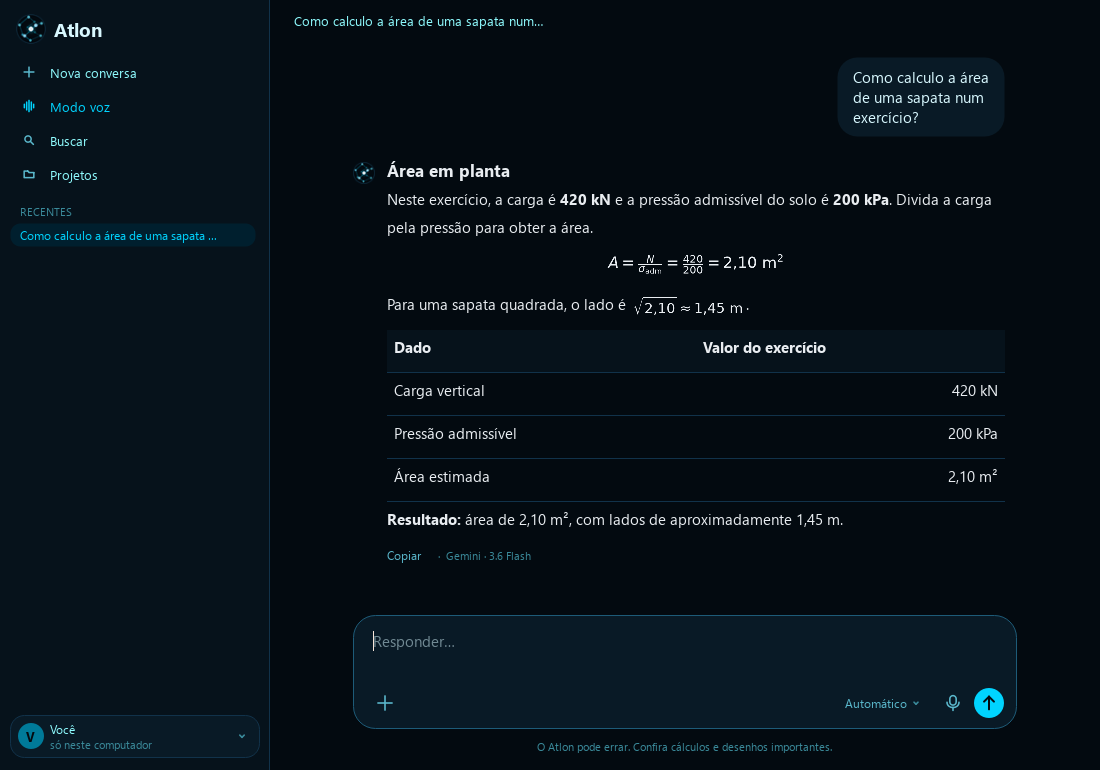
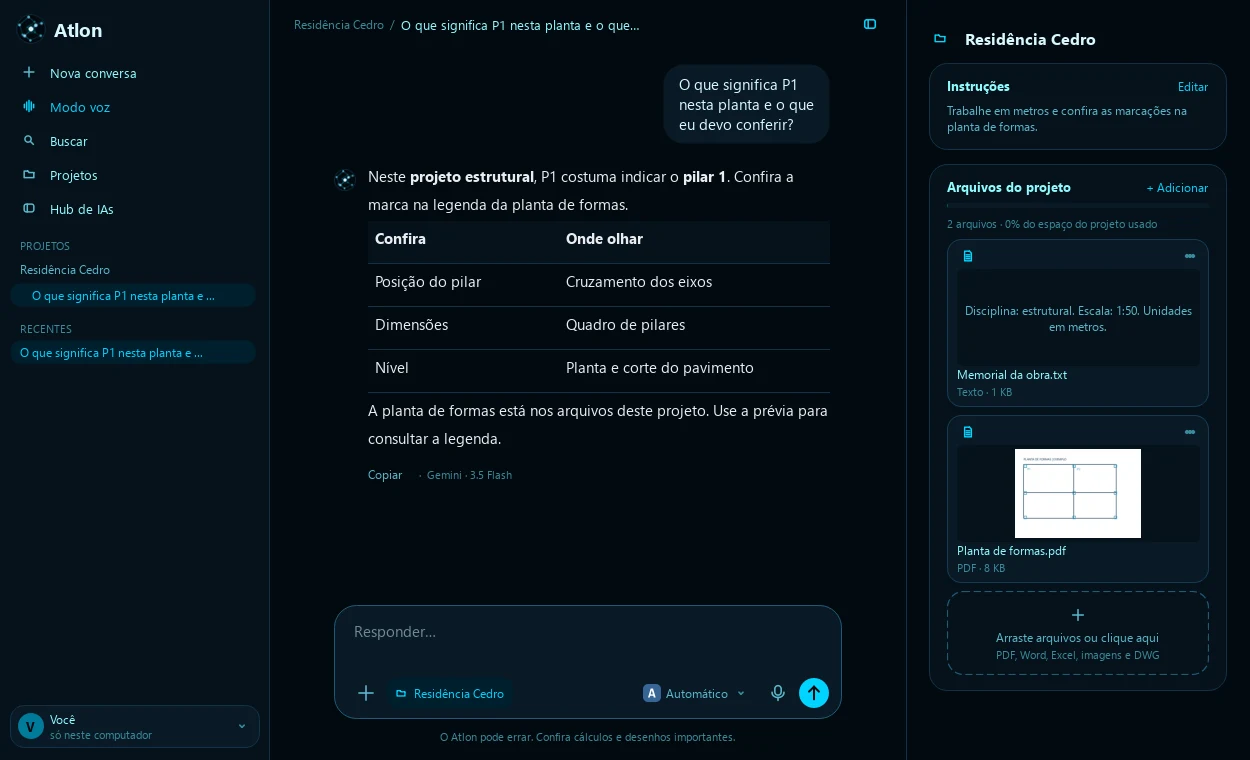
Apresenta os recursos atuais do Atlon e prepara a Beta 1.6

diff --git a/index.html b/index.html
@@ -3,16 +3,16 @@
 <head>
 <meta charset="utf-8"><meta name="viewport" content="width=device-width, initial-scale=1">
 <meta name="robots" content="noindex, nofollow"><meta name="theme-color" content="#030a10">
-<meta name="description" content="Conheça o Atlon, seu assistente de voz para o dia a dia e a engenharia civil. Baixe o beta para Windows e o guia em PDF.">
+<meta name="description" content="Conheça o Atlon. Converse com suas IAs, organize projetos e acompanhe seus desenhos no AutoCAD e Revit. Baixe para Windows e consulte o guia em PDF.">
 <title>A.T.L.O.N. · Seu projeto, na conversa.</title>
-<link rel="icon" href="atlon-logo.png"><link rel="stylesheet" href="style.css?v=mark-i-5"><script src="site.js?v=mark-i-4" defer></script>
+<link rel="icon" href="atlon-logo.png"><link rel="stylesheet" href="style.css?v=mark-i-6"><script src="site.js?v=mark-i-6" defer></script>
 </head>
 <body>
 <a class="skip" href="#inicio">Pular para o conteúdo</a>
-<header class="wrap top"><a class="brand" href="#inicio" aria-label="Atlon, início"><img src="atlon-logo.png" width="36" height="36" alt="">A.T.L.O.N.</a><nav aria-label="Navegação principal"><a href="#novidades">Novidades</a><a href="#videos">Vídeos</a><a href="#guia">Guia</a><a class="nav-download" href="#baixar">Baixar ↓</a></nav></header>
+<header class="wrap top"><a class="brand" href="#inicio" aria-label="Atlon, início"><img src="atlon-logo.png" width="36" height="36" alt="">A.T.L.O.N.</a><nav aria-label="Navegação principal"><a href="#recursos">Recursos</a><a href="#videos">Vídeos</a><a href="#guia">Guia</a><a class="nav-download" href="#baixar">Baixar ↓</a></nav></header>
 <main id="inicio">
 <section class="hero wrap" aria-labelledby="titulo">
-<div><p class="edition"><span aria-hidden="true">●</span> Mark I / Beta 1.5 para Windows</p><h1 id="titulo">Seu projeto,<br>na conversa.</h1><p class="lead">Um assistente que ouve suas ideias e ajuda a levar o trabalho adiante. Do dia a dia ao desenho técnico.</p><div class="actions"><a class="button primary" href="#baixar">Baixar o Atlon ↓</a><a class="text-link" href="#como-funciona">Conhecer o assistente</a></div><p class="fine">Voz e texto · AutoCAD e Revit · Projetos e documentos</p></div>
+<div><p class="edition"><span aria-hidden="true">●</span> Mark I para Windows</p><h1 id="titulo">Seu projeto,<br>na conversa.</h1><p class="lead">Converse com suas IAs, organize os arquivos de cada projeto e leve a conversa para o AutoCAD ou o Revit.</p><div class="actions"><a class="button primary" href="#baixar">Baixar o Atlon ↓</a><a class="text-link" href="#hub-de-conversas">Conhecer o Hub de Conversas</a></div><p class="fine">Voz e texto · AutoCAD e Revit · Projetos e documentos</p></div>
 <div class="nucleus hud" aria-label="Ilustração da esfera de rede do Atlon"><div class="frame-head"><span>◈ NÚCLEO ATLON</span><span>DEMONSTRAÇÃO</span></div><canvas id="sphere" width="600" height="540" aria-hidden="true"></canvas><div class="frame-foot"><span>REDE NEURAL ◉</span><span>VOZ + CONTEXTO</span></div></div>
 </section>
 <section class="experience wrap" id="como-funciona" aria-labelledby="funciona">
@@ -24,40 +24,32 @@
 <article><span aria-hidden="true">⌖</span><h3>Trabalhe com contexto</h3><p>Na estação conectada, consulte seleção e propriedades do projeto. Peça orientação com referências de AutoCAD e Revit.</p></article>
 <article><span aria-hidden="true">✓</span><h3>Confira antes de mudar</h3><p>Nas operações disponíveis, o Atlon prepara uma prévia. Você confirma a alteração e pode pedir para desfazê-la.</p></article>
 </section>
-<section class="release wrap" id="novidades" aria-labelledby="release-title">
-  <div class="release-head"><h2 id="release-title">O que mudou na Beta 1.5</h2><a class="text-link" href="#baixar">Ir para o download ↓</a></div>
-  <section class="hub-feature setup-feature" aria-labelledby="setup-title">
-    <div class="hub-copy">
-      <h3 id="setup-title">O Atlon ajuda a se configurar</h3>
-      <p>Abra <strong>Configurar Atlon</strong> para conferir as IAs disponíveis, testar o Gemini ou escolher se quer sincronizar as conversas com o Google.</p>
-      <p>Você também pode escrever “Quais IAs eu já tenho conectadas?” para receber ajuda no chat.</p>
-    </div>
-    <figure class="hub-screen"><a href="configurar-atlon.webp" aria-label="Ampliar a tela Configurar Atlon"><img src="configurar-atlon.webp" width="596" height="533" loading="lazy" alt="Tela Configurar Atlon com botão Entrar com Google e opções de Gemini, ChatGPT e Claude."></a><figcaption>Tela de configuração com um perfil de exemplo.</figcaption></figure>
-  </section>
+<section class="release wrap" id="recursos" aria-labelledby="recursos-title">
+  <div class="release-head"><h2 id="recursos-title">O que você pode fazer com o Atlon</h2></div>
 <section class="hub-feature" id="hub-de-conversas" aria-labelledby="hub-title">
   <div class="hub-copy">
     <h3 id="hub-title">Hub de Conversas</h3>
-    <p>Abra <strong>Conversar</strong> no Atlon. Na caixa de mensagem, clique em <strong>Automático</strong> para escolher a IA, o modelo, o modo e o esforço disponível.</p>
-    <p>O Atlon mostra quem respondeu. As contas aparecem conforme as conexões que você configurar.</p>
-    <figure class="hub-picker"><img src="hub-escolha-ia.webp" width="383" height="280" loading="lazy" alt="Menu do Atlon com Gemini, Claude, ChatGPT e Groq, modo Análise detalhada e esforço Alto."><figcaption>Menu de escolha da IA, do modo e do esforço.</figcaption></figure>
+    <p>Escolha entre as IAs conectadas ou use o <strong>Automático</strong>. Você pode decidir o modelo, o modo de resposta e o esforço disponível. Cada resposta mostra a IA que respondeu.</p>
+    <p>Em <strong>Projetos</strong>, reúna instruções e arquivos. Veja miniaturas e abra PDFs dentro do Atlon. O chat retoma informações do mesmo projeto, como disciplina e escala.</p>
+    <figure class="hub-picker"><a href="hub-escolha-ia.webp?v=1.6" aria-label="Ampliar o Hub de IAs"><img src="hub-escolha-ia.webp?v=1.6" loading="lazy" alt="Hub de IAs do Atlon com busca, logos dos provedores e opções de modelo e esforço."></a><figcaption>Hub de IAs com um perfil de exemplo.</figcaption></figure>
   </div>
-  <figure class="hub-screen"><a href="hub-conversas.webp" aria-label="Ampliar imagem do Hub de Conversas"><img src="hub-conversas.webp" width="1100" height="770" loading="lazy" alt="Hub de Conversas do Atlon com uma resposta de engenharia, fórmula de área, tabela e identificação do modelo."></a><figcaption>Conversa de exemplo no Atlon. Clique na imagem para ampliar.</figcaption></figure>
+  <figure class="hub-screen"><a href="hub-conversas.webp?v=1.6" aria-label="Ampliar o Hub de Conversas"><img src="hub-conversas.webp?v=1.6" width="1250" height="760" loading="lazy" alt="Conversa de engenharia no Atlon com uma resposta formatada e miniaturas de arquivos do projeto."></a><figcaption>Conversa de exemplo com os arquivos da obra ao lado.</figcaption></figure>
 </section>
   <div class="release-grid">
+    <article><h3>Instruções e skills</h3><p>Guarde orientações que o chat deve seguir e escolha uma skill para Word, Excel, PowerPoint ou PDF. Você também pode criar a sua.</p></article>
+    <article><h3>Configuração guiada</h3><p>Veja quais IAs estão conectadas, teste a chave do Gemini e escolha se quer sincronizar suas conversas com o Google.</p></article>
     <article><h3>IA local como opção</h3><p>Converse por texto com um modelo no seu computador. Depois de preparado, ele também pode responder como reserva no Automático.</p></article>
-    <article><h3>Escolha quem responde</h3><p>Use o modo Rápido, Equilibrado ou Detalhado. DeepSeek, Grok e Mistral entram no chat quando você conecta a própria chave.</p></article>
-    <article><h3>Entenda o contexto do desenho</h3><p>P1 pode ser porta ou pilar. O Atlon considera a disciplina, a legenda e, no Revit, a categoria do elemento.</p></article>
   </div>
 </section>
 <section class="videos wrap" id="videos" aria-labelledby="em-acao"><div class="videos-head"><p class="kicker">Exemplos reais</p><h2 id="em-acao">Veja o Atlon<br>em ação.</h2><p class="intro-text">Gravados no próprio Atlon, com arquivos de exemplo. A voz grave é a do Atlon; a narração explica cada passo.</p></div><div class="video-grid"><article class="video-card"><video controls preload="none" playsinline poster="videos/conheca.jpg" aria-label="Vídeo: Conheça o Atlon"><source src="videos/conheca.mp4" type="video/mp4"></video><h3>Conheça o Atlon</h3><p>Você pergunta, ele responde com a própria voz e muda a tela conforme o assunto.</p></article><article class="video-card"><video controls preload="none" playsinline poster="videos/mapa.jpg" aria-label="Vídeo: Mapa de Arquivos"><source src="videos/mapa.mp4" type="video/mp4"></video><h3>Mapa de Arquivos</h3><p>Qualquer pasta vira um mapa. Entre nas pastas e abra arquivos pela voz.</p></article><article class="video-card"><video controls preload="none" playsinline poster="videos/arquivos.jpg" aria-label="Vídeo: Planilhas e documentos"><source src="videos/arquivos.mp4" type="video/mp4"></video><h3>Planilhas e documentos</h3><p>Abra uma planilha dentro do Atlon e peça para mudar um valor. O total recalcula na hora.</p></article><article class="video-card"><video controls preload="none" playsinline poster="videos/autocad.jpg" aria-label="Vídeo: Planta em PDF no AutoCAD"><source src="videos/autocad.mp4" type="video/mp4"></video><h3>Planta em PDF no AutoCAD</h3><p>Do PDF para o DWG, com paredes, cortes, projeções e cotas em camadas separadas.</p></article></div></section>
 <section class="project wrap" aria-labelledby="projeto"><div><p class="kicker">Engenharia, na mesma conversa</p><h2 id="projeto">Você desenha.<br>O Atlon acompanha.</h2></div><div><p>Trabalhe com mouse ou pinça. Com o conector ativo, o Atlon atualiza a leitura parcial do arquivo, da vista e da seleção. No Gemini Live, <strong>Olhar projeto</strong> permite acompanhar mudanças visíveis na janela escolhida.</p><p>Peça “o que eu selecionei?” ou explique o que quer mudar. As alterações dependem dos comandos disponíveis, da prévia e da sua confirmação.</p><p class="unit-rule"><span>m</span> Falou “1,80”? São 1,80 metros. Outra unidade, só quando você indicar.</p></div><details class="interface-preview"><summary>Ver a interface do Atlon <span aria-hidden="true">+</span></summary><figure><img src="interface-atlon.png" width="980" height="700" loading="lazy" alt="Interface azul-marinho do Atlon com esfera de rede em ciano, controles e indicador de modo mudo."><figcaption>Interface registrada no modo mudo. A demonstração do site não controla nenhum projeto.</figcaption></figure></details></section>
-<section class="download wrap" id="baixar" aria-labelledby="instalador"><div><p class="kicker">A.T.L.O.N. / Mark I</p><h2 id="instalador">Pronto para começar?</h2><p>O instalador já inclui o Python. Quem usa a 1.4 pode fechar o Atlon e instalar a 1.5 na mesma pasta, por cima da anterior.</p><p class="fine">Windows 10 ou 11 de 64 bits · Beta 1.5 · Sem login para baixar</p></div><div class="download-actions"><a class="button primary installer" href="https://github.com/engroger02-star/atlon-site/releases/download/v1.5.0-beta.16/Atlon-Setup-1.5.0.exe">Baixar Atlon Mark I ↓</a><a class="text-link" href="https://github.com/engroger02-star/atlon-site/releases/tag/v1.5.0-beta.16">Notas da versão e verificação do arquivo</a></div></section>
-<section class="guide wrap" id="guia" aria-labelledby="manual"><div><p class="kicker">O essencial para usar</p><h2 id="manual">Seu guia,<br>sempre à mão.</h2><p class="intro-text">Aprenda a instalar, conectar as IAs, usar o Desenho Técnico e atualizar o Atlon.</p><a class="button secondary" href="manual-atlon.pdf?v=1.5.0" download="manual-atlon.pdf">Baixar guia em PDF ↓</a></div><div>
+<section class="download wrap" id="baixar" aria-labelledby="instalador"><div><p class="kicker">A.T.L.O.N. / Mark I</p><h2 id="instalador">Baixe para Windows</h2><p>O instalador já inclui o Python. Para atualizar, feche o Atlon e instale na mesma pasta. Suas configurações e conversas são preservadas.</p><p class="fine">Windows 10 ou 11 de 64 bits · Beta 1.6 · Sem login para baixar</p></div><div class="download-actions"><a class="button primary installer" href="https://github.com/engroger02-star/atlon-site/releases/download/v1.6.0-beta.17/Atlon-Setup-1.6.0.exe">Baixar Atlon Mark I ↓</a><a class="text-link" href="https://github.com/engroger02-star/atlon-site/releases/tag/v1.6.0-beta.17">Notas da versão e verificação do arquivo</a></div></section>
+<section class="guide wrap" id="guia" aria-labelledby="manual"><div><p class="kicker">O essencial para usar</p><h2 id="manual">Seu guia,<br>sempre à mão.</h2><p class="intro-text">Aprenda a instalar, conectar as IAs, usar o Desenho Técnico e atualizar o Atlon.</p><a class="button secondary" href="manual-atlon.pdf?v=1.6.0" download="manual-atlon.pdf">Baixar guia em PDF ↓</a></div><div>
 <details><summary>O que preciso para começar?<span aria-hidden="true">+</span></summary><p>Instale o Atlon e cadastre sua chave pessoal do <a href="https://aistudio.google.com/apikey">Google AI Studio</a> no campo protegido. Escolha seu microfone e sua saída de som na configuração guiada. As cotas dependem da sua conta no Google.</p><p>O beta ainda não tem assinatura digital de editor. Se o Windows mostrar um aviso, confira a origem do arquivo e as notas da versão.</p></details>
 <details><summary>Como deixo o Atlon do meu jeito?<span aria-hidden="true">+</span></summary><p>Na engrenagem, abra Configuração guiada. Em Do seu jeito, ajuste nome, cidade e bom dia. Você também pode pedir “configure meu bom dia” ou “ative as palmas”. O Hub de IAs reúne as conexões opcionais e a escolha de modelos; voz e IA são escolhas separadas.</p></details>
 <details><summary>Como converso por texto e uso projetos?<span aria-hidden="true">+</span></summary><p>Na tela da esfera, clique em <strong>CONVERSAR</strong>. A conversa por texto tem projetos com instruções e arquivos, anexos de PDF, imagem e planilha, e um botão de áudio que escreve o que você falou. Abra <strong>Automático</strong> para escolher IA, modelo, modo de resposta e esforço, conforme o provedor. Para levar o histórico a outro computador, configure a mesma conta Google e ative a sincronização nos dois. As fórmulas aparecem desenhadas no chat.</p><p>Para voltar ao assistente, clique em <strong>Modo voz</strong>. Escreva “Salva essa resposta no Word” para exportar. Para desenhar, use o Desenho Técnico.</p></details>
-<details><summary>Como uso AutoCAD ou Revit?<span aria-hidden="true">+</span></summary><p>Os programas precisam estar instalados separadamente. Abra Desenho Técnico e conecte a janela do projeto. O Revit requer pyRevit/Agent Runtime; somente leitura permite consultar, mas não editar.</p><p>Escolha o Local da Obra e comece pela leitura da seleção. A pesquisa de legislação aponta fontes e o que ainda precisa ser verificado. Para alterar o desenho, confira a prévia e confirme. O acompanhamento visual é opcional e usa imagens da janela CAD no Gemini Live; pode consumir cota.</p></details>
-<details><summary>Como conecto contas e atualizo?<span aria-hidden="true">+</span></summary><p>Na tela <strong>Configurar Atlon</strong>, conecte os serviços que quiser usar. Nesta beta, a primeira conexão com Google pode pedir um arquivo de cliente Google. A sincronização é opcional. ChatGPT e Claude pedem autorização própria.</p><p>Para atualizar, feche o Atlon e instale a nova versão na mesma pasta. Suas configurações, conversas e chaves continuam no computador. Mark I é a geração do Atlon. Beta 1.5 é a versão do instalador.</p></details>
+<details><summary>Como uso AutoCAD ou Revit?<span aria-hidden="true">+</span></summary><p>Abra Desenho Técnico e conecte a janela do programa instalado. O Revit requer pyRevit com Agent Runtime. Para editar, são necessárias as permissões do conector e a sua confirmação. A reconstrução de PDF no Revit é experimental.</p><p>Em <strong>Local da obra</strong>, escolha primeiro o estado. Escolha a cidade na lista ou digite o nome e pressione Enter. O Atlon busca o Código de Obras e leva as fontes encontradas para a conversa. Confira os pontos que ainda dependem da zona, do uso e da vigência da regra.</p></details>
+<details><summary>Como conecto contas e atualizo?<span aria-hidden="true">+</span></summary><p>Use <strong>Configurar Atlon</strong> para conectar os serviços que quiser. A conexão opcional com o Google pode pedir um arquivo de cliente Google. ChatGPT e Claude pedem autorização própria.</p><p>Para atualizar, feche o Atlon e instale a nova versão na mesma pasta. As configurações, conversas e chaves continuam no seu computador.</p></details>
 </div></section>
 </main><footer class="wrap"><a class="brand" href="#inicio"><img src="atlon-logo.png" width="26" height="26" alt="">A.T.L.O.N.</a><span>Uma ideia em construção. Com você.</span><a href="#baixar">Mark I / Windows</a></footer>
 </body></html>

diff --git a/site.js b/site.js
@@ -1,6 +1,6 @@
 "use strict";
 (() => {
-const scenes={daily:["Como vai funcionar meu bom dia?","Você escolhe seu nome, sua cidade e o que quer ouvir. Depois, é só pedir “bom dia” para receber sua rotina.","Exemplo ilustrativo. Esta página não acessa seu microfone nem suas contas."],chat:["Use o modo Análise detalhada e me explique esta conta.","Escolha a IA, o modelo e o esforço no menu da conversa. Se usar Automático, a resposta mostra qual modelo respondeu.","Exemplo ilustrativo. As opções dependem das IAs conectadas."],cad:["Desenhe uma linha de 1,80.","Comprimento: 1,80 m. Para preparar a prévia, preciso do ponto inicial e da direção. A alteração só acontece depois da sua confirmação.","Simulação de conversa. Nenhum AutoCAD é aberto ou controlado por esta página."],revit:["O que eu selecionei no Revit?","Com o projeto conectado, o Atlon consulta a seleção e explica as propriedades disponíveis. Para ajudar com uma alteração, ele confere os dados e prepara a prévia.","Exemplo de uso. A seleção real depende do conector; o site não lê nenhum modelo."]};
+const scenes={daily:["Como vai funcionar meu bom dia?","Você escolhe seu nome, sua cidade e o que quer ouvir. Depois, é só pedir “bom dia” para receber sua rotina.","Demonstração da conversa no Atlon."],chat:["O que significa P1 neste projeto?","Neste projeto estrutural, P1 costuma indicar o pilar 1. A disciplina está nas informações do projeto. Abra a planta aqui no chat e confira a legenda antes de aplicar a interpretação.","Exemplo com informações e arquivos de um projeto fictício."],cad:["Qual é o Código de Obras da minha cidade?","Em Local da obra, escolha o estado e selecione ou digite a cidade. O Atlon busca fontes oficiais para a conversa e mostra o que ainda precisa ser conferido, como a zona do lote.","Demonstração. A busca acontece no aplicativo."],revit:["O que eu selecionei no Revit?","Com o conector ativo, o Atlon lê as propriedades disponíveis. Para alterar o modelo, ele apresenta a prévia e pede sua confirmação.","Exemplo de uso com a estação de desenho conectada."]};
 document.querySelectorAll('[data-scene]').forEach(button=>button.addEventListener('click',()=>{document.querySelectorAll('[data-scene]').forEach(item=>item.setAttribute('aria-pressed',String(item===button)));['demo-question','demo-answer','demo-note'].forEach((id,i)=>document.getElementById(id).textContent=scenes[button.dataset.scene][i]);}));
 const canvas=document.getElementById('sphere'),c=canvas.getContext('2d');if(!c)return;
 const nodes=[],edges=new Set(),golden=Math.PI*(3-Math.sqrt(5));
